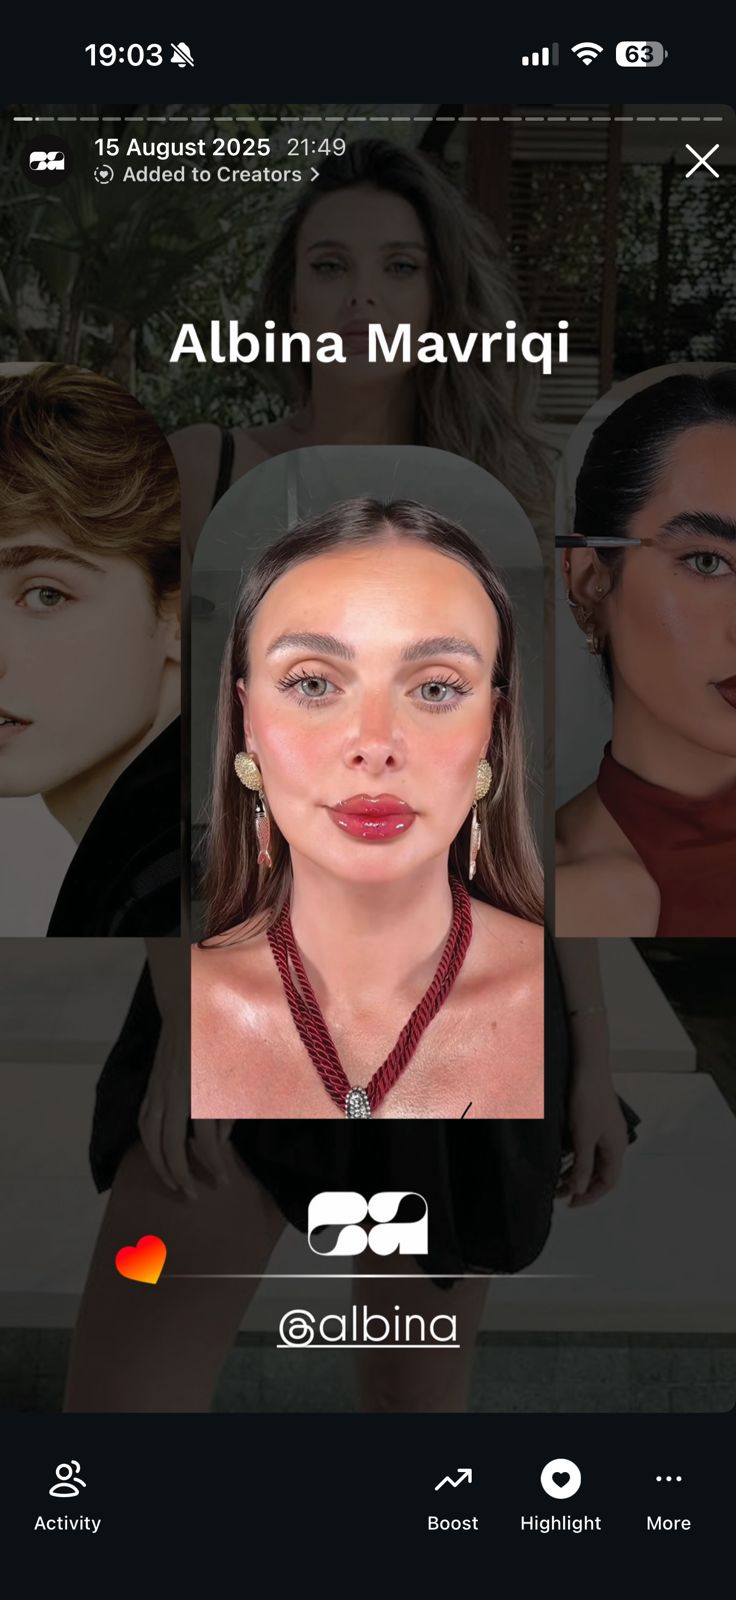
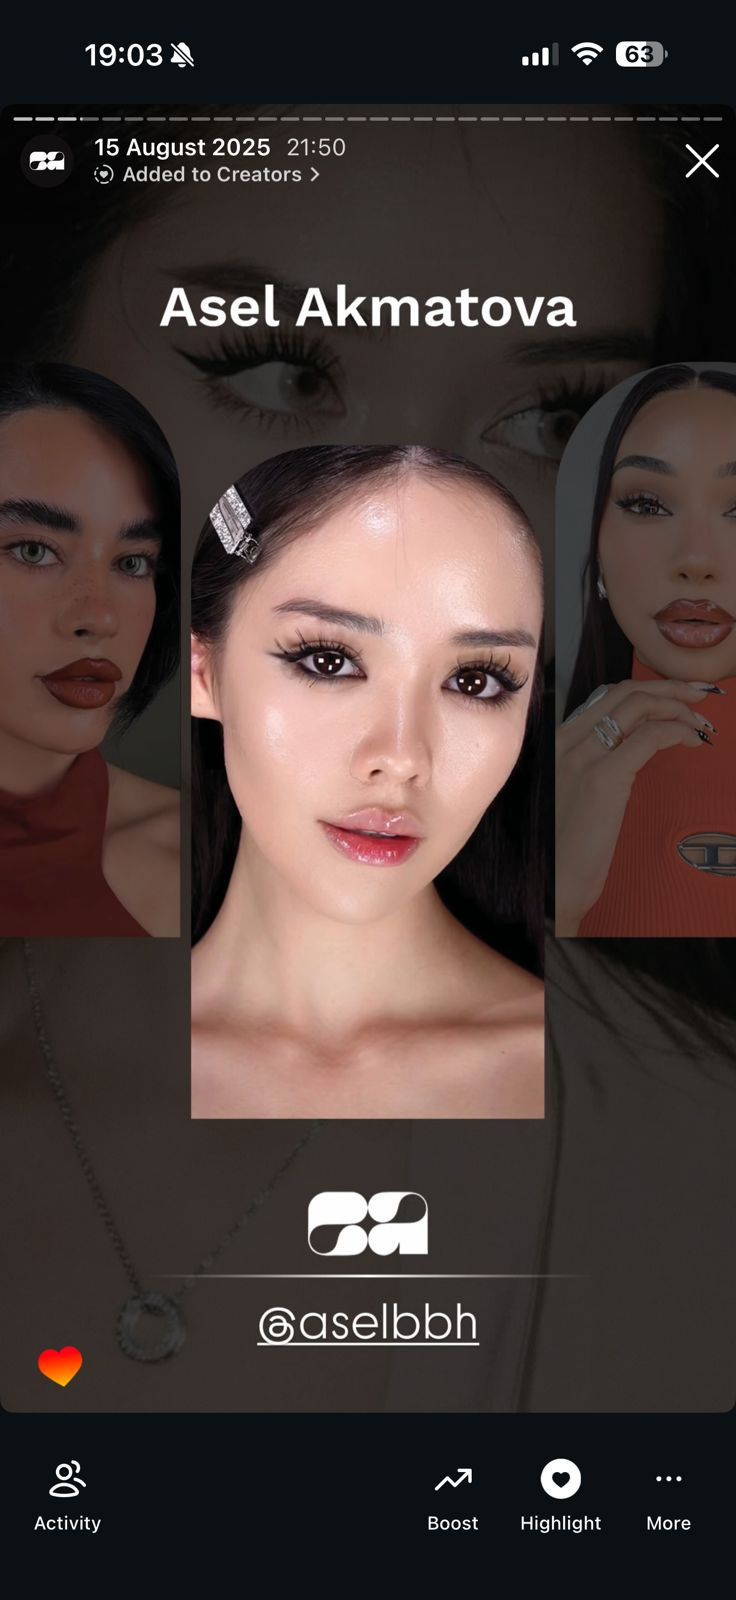
Fix all Instagram talent photos with correct names using WhatsApp references

diff --git a/prisma/seed.ts b/prisma/seed.ts
@@ -112,7 +112,7 @@ async function main() {
     },
     {
       name: 'Albina Mavriqi',
-      imageUrl: '/images/talents/albina-mavriqi.png',
+      imageUrl: '/images/talents/albina-mavriqi.jpeg',
       category: 'instagram',
       instagramUrl: 'https://www.instagram.com/albina/',
       tiktokUrl: 'https://www.tiktok.com/@albinasglam/',

diff --git a/app/(site)/page.tsx b/app/(site)/page.tsx
@@ -83,7 +83,7 @@ const heroImages = [
 const talents = [
   {
     name: 'Albina Mavriqi',
-    imageUrl: '/images/talents/albina-mavriqi.png',
+    imageUrl: '/images/talents/albina-mavriqi.jpeg',
     instagramUrl: 'https://www.instagram.com/albina/',
     tiktokUrl: 'https://www.tiktok.com/@albinasglam/',
   },
